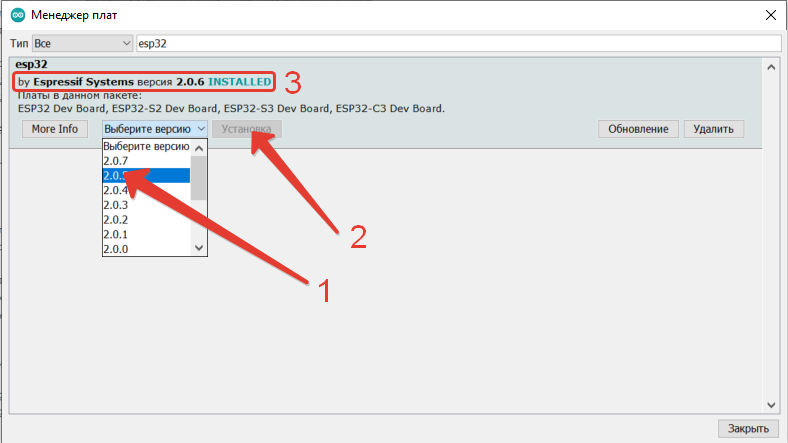
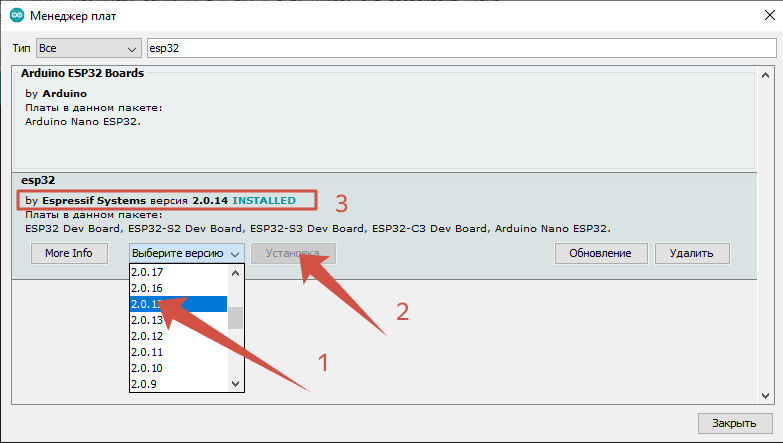
Корректировка статей Wiki

diff --git a/wiki/faq-1.md b/wiki/faq-1.md
@@ -20,7 +20,7 @@
 ### Вопросы по этому проекту
 
 #### **В**: **Эй чувак! У тебя проект не компилится. Ты файл FastLed.h в проект забыл включить. Выложи!**  
-**О**: Это стандартная библиотека для FastLED для управления адресными светодиодами. Идите в менеджер библиотек и установите ее. Версию библиотеки выбирайте 3.5 или 3.4; Или скачайте с [сайта производителя](https://github.com/FastLED/FastLED). Или скопируйте в папку библиотек ардуино из папки библиотек проекта (libraries/FastLED) - там она тоже есть.
+**О**: Это стандартная библиотека для FastLED для управления адресными светодиодами. Идите в менеджер библиотек и установите ее. Версию библиотеки выбирайте 3.6.0 или 3.7.0; Или скачайте с [сайта производителя](https://github.com/FastLED/FastLED).  
 
 -----
 
@@ -33,14 +33,14 @@
 
 #### **В**: **Не компилируется. Выбрана плата "голая ESP8266-12E". Сообщение об ошибке: "D4 was not declared in this scope."**  
 **О**: Очевидно производители библиотеки для "голой ESP8266-12E" не определили данную константу. Используйте вместо константы D4 числовое определение пина для вашей платы или 
-       выполните компиляцию проекта для плат NodeMCU или WeMos D1 mini. Рекомендуется в качестве платы назначения указывать **ModeMCU v1.0 (ESP-12E Module)**
+       выполните компиляцию проекта для плат NodeMCU или WeMos d1 mini. Рекомендуется в качестве платы назначения указывать **ModeMCU v1.0 (ESP-12E Module)** для плат NodeMCU и **LOLIN(WEMOS) D1 mini (clone)** для плат Wemos d1 mini.
 
 -----
 
 #### **В**: **Не компилируется. В сообщении об ошибке содержатся сведения о дублирующихся библиотеках.**  
 **О**: В вашей среде установлено две версии одной и той же библиотеки. Обычно это библиотека FastLED - одна версия находится в папке установки среды Arduino 
        (например в "C:\Program Files (x86)\Arduino\libraries\"), другая - в папке документов пользователя (например "C:\Users\vvip-68\Documents\Arduino\libraries\"). 
-       Удалите одну из версий библиотек, убедитесь что оставшаяся библиотека имеет версию 3.4 или 3.5 и попробуйте скомпилировать скетч снова.
+       Удалите одну из версий библиотек, убедитесь что оставшаяся библиотека имеет версию 3.6.0 или 3.7.0 и попробуйте скомпилировать скетч снова.
 
 -----
 
@@ -49,20 +49,20 @@
 - выбрана неверная плата. Используйте **NodeMCU 1.0 (ESP-12E Module)** или **LOLIN(WEMOS) D1 mini (clone)**. Под эти платы проект собирается, под другие, возможно, нужна модификация кода.
 - установлена устаревшая версия библиотек поддержки плат - например для ESP8266 версия библиотеки 2.4.2. 
   Данный проект использует библиотеки для плат ESP8266 версии **3.1.2.**.  
-  Для версии микроконтроллера ESP32 используйте версию ядра **1.0.6**.  
+  Для версии микроконтроллера ESP32 используйте версию ядра **2.0.14**.  
   Изучите инструкцию в комментариях в начале основного файла проекта. Обновите библиотеки поддержки плат (ядро) до этой версии.
   С другими версиями ядра, в том числе и более новыми, проект может работать нестабильно, вообще не работать или даже не компилироваться.
 
 -----
 
 #### **В**: **Собрал, использую NodeMCU (Wemos D1 mini). Эффекты работают, но нестабильно. Случайные вспышки на матрице. Буквы бегущей строки прыгают.**  
-**О**: Для начала убедитесь, что вы используете рекомендованные версии ядра системы - ***3.1.2*** для **ESP8266**, ***1.0.6*** для **ESP32**.  
+**О**: Для начала убедитесь, что вы используете рекомендованные версии ядра системы - ***3.1.2*** для **ESP8266**, ***2.0.14*** для **ESP32**.  
        Если версии ядра установлены правильные, но проблема всё еще наблюдается - попробуйте рекомендации изложенные 
        в статье [Три шага к успеху](https://github.com/vvip-68/LedPanelWiFi/wiki/Три-шага-к-успеху.-Некоторые-особенности-настроек...)
 
 -----
 
-#### **В**: **Подскажите, что не так... C подключением через точку доступа всё исправно работает, а при попытке подключиться к локальной сети не могу законнектиться через приложение. В чем может быть проблема?**  
+#### **В**: **Подскажите, что не так... C подключением через точку доступа всё исправно работает, а при попытке подключиться к локальной сети не могу законнектиться через Web-интерфейс. В чем может быть проблема?**  
 **О**: Проблема может быть в неправильно указанном статическом адресе / параметрах сети в прошивке. В скетче по умолчанию используется адрес в сети 192.168.**0**.xxx. 
 
 Ваш WiFi роутер в зависимости от настроек может создавать сеть в другом диапазоне. Чаще всего это 192.168.**1**.xxx или 192.168.**100**.xxx; 
@@ -71,7 +71,7 @@ IP из **этой** сети. Допустим, роутер имеет IP-ад
 
 Следующий вариант - ваш роутер имеет адрес, отличный от стандартного - 1-й адрес в сети, например вместо адреса 192.168.0.**1** 
 роутер работает на адресе 192.168.0.**254**. Исправьте в скетче в разделе настроек сети параметр Gateway (GTW):  
-параметр, указывающий какую подсеть использует роутер задается в настройках в файле **a_def_hard.h** в строке 33.
+параметр, указывающий какую подсеть использует роутер задается в настройках в файле **a_def_soft.h** в строке 31.
 
 ```
 #ifndef GTW
@@ -80,23 +80,16 @@ IP из **этой** сети. Допустим, роутер имеет IP-ад
 ```
 -----
 
-#### **В**: **Автор неверно указал IP адрес панели 192.168.4.1 в режиме точки доступа. На самом деле он 192.168.4.2 - указываю его, приложение на смартфоне подключается. Правда управлять устройством не получается все равно - она не реагирует на изменения.**  
-**О**: Нет, все правильно. IP панели - 192.168.4.1; Адрес 192.168.4.2 получает ваш смартфон при подключении к точке доступа. 
-       Когда в приложении для подключения вы указываете адрес 192.168.4.2 - вы подключаете ваш смартфон с самому себе, а не к устройству. 
-       Естественно никакое управление устройством работать не будет.   
-
------
-
-#### **В**: **Устройство создает точку доступа, телефон к ней подключается. В приложении ввожу IP адрес панели 192.168.4.1, но соединение не происходит. Что я делаю не так?**  
+#### **В**: **Устройство создает точку доступа, телефон к ней подключается. В браузере ввожу IP адрес панели 192.168.4.1, но соединение не происходит. Что я делаю не так?**  
 **О**: Некоторые телефоны не могут передавать данные через точку доступа, пока в них активен мобильный интернет. 
        Все передаваемые данные отправляются в интернет, вместо передачи их в точку доступа. В настройках телефона выключите мобильный интернет ("Мобильные данные"). 
-       После этого телефон из приложения должен подключиться к устройству.  
+       После этого телефон из браузера должен подключиться к устройству.  
 
 -----
 
 #### **В**: **Устройство подключается к сети, получает адрес - это видно в логах. Телефон к устройству подключается. В приложении ввожу IP адрес, полученный устройством - тот, что выводится в логе, но соединение не происходит. Что я делаю не так?**  
 **О**: Некоторые роутеры  (например роутеры ASUS, в частности Asus RT-AC58U), имеют в своих настройках параметр "Изоляция точки доступа", он же - "Режим изоляции клиентов". 
-       По умолчанию эта настройка включена. Отключите ее. После этого приложение должно подключиться к смартфону.  
+       По умолчанию эта настройка включена. Отключите ее. После этого браузер должен подключиться к смартфону.  
 
 -----
 
@@ -106,10 +99,11 @@ IP из **этой** сети. Допустим, роутер имеет IP-ад
 #define NETWORK_PASS ""  // Пароль для подключения к WiFi сети - пропишите здесь или задайте из приложения настроек Web-приложения в браузере
 ```
 **О**: Эти настройки определяют параметры доступа к сети по умолчанию, которые используются при ***ПЕРВОЙ*** загрузке прошивки в устройство. 
-       В этот момент они сохраняются в памяти матрицы и при последующих запусках имя сети и пароль извлекаются из энергонезависимой памяти и 
+       В этот момент они сохраняются в памяти контроллера и при последующих запусках имя сети и пароль извлекаются из энергонезависимой памяти и 
        используются уже извлеченные значения, а не те, что прописаны в #define. 
        Если вы уже запускали устройство и ПОСЛЕ этого изменили в скетче имя и пароль сети, вам нужно также изменить значение флага, 
-       указывающее было ли уже сохранение параметров в EEPROM или еще нет. Этот флаг находится в файле a_def_soft.h в строке 7  
+       указывающее было ли уже сохранение параметров в EEPROM или еще нет. Этот флаг находится в файле a_def_soft.h в строке 7.
+       Измените на любое другое 16-ричное число в 1 байт.
 
 ```
 #define EEPROM_OK 0x5A // Флаг, показывающий, что EEPROM инициализирована корректными данными 
@@ -142,7 +136,7 @@ IP из **этой** сети. Допустим, роутер имеет IP-ад
 **О**: ***Вариант 1***: У вас физически не подключена кнопка, но скетч скомпилирован с опцией использования функционала кнопки `#define USE_BUTTON 1`. В этом случае микроконтроллер свободный пин кнопки, притянутый внутренним резистором микроконтроллера к "земле" воспринимает как состояние кнопки "нажато". Длительное "нажатие" кнопки воспринимается скетчем как запрос на регулировку яркости матрицы.  
 **Решение:** либо припаяйте кнопку, либо отключите в настройках скетча использование кнопки `#define USE_BUTTON 0`.   
 
-***Вариант 2***: Используется версия ядра, отличная от рекомендованной **3.1.2** для **ESP8266**, **1.0.6** для **ESP32**.  
+***Вариант 2***: Используется версия ядра, отличная от рекомендованной **3.1.2** для **ESP8266**, **2.0.14** для **ESP32**.  
 
 **Решение:** ***Вариант 1***:  
 Отключить использование кнопки в настройках скетча - в файле a_def_hard.h указать
@@ -151,7 +145,7 @@ IP из **этой** сети. Допустим, роутер имеет IP-ад
 ```
 
 **Решение:** ***Вариант 2***:  
-Установить ядро рекомендованных версий **3.1.2** для **ESP8266** или **1.0.6** для **ESP32** - при этом кнопка матрицы будет работать корректно, самопроизвольного изменения яркости не будет происходить.
+Установить ядро рекомендованных версий **3.1.2** для **ESP8266** или **2.0.14** для **ESP32** - при этом кнопка матрицы будет работать корректно, самопроизвольного изменения яркости не будет происходить.
 
 -----
 
@@ -162,14 +156,3 @@ IP из **этой** сети. Допустим, роутер имеет IP-ад
 
 Файлы для загрузки находятся в проекте в папке **'data'** внутри парки скетча. Выполните [загрузку файлов](https://github.com/vvip-68/LedPanelWiFi/wiki/Пошаговая-инструкция-подготовки-среды-и-сборка-проекта#шаг-10) в [файловую систему](https://github.com/vvip-68/LedPanelWiFi/wiki/Загрузка-данных-в-файловую-систему-МК) микроконтроллера.   
 
------
-
-#### **В**: **Проект на ESP32, версия ядра 1.0.6. Всё собирается и загружается в плату. Web-интерфейс доступен, но ничего не могу настроить. 
-При выборе эффекта в Web-интерфейсе микроконтроллер перезагружается. В логе пишет "Heap corrupted". Что делать, как исправить?
-
-**О**: если при нажатии кнопки смены эффекта в Web-приложении вы получаете краш программы с сообщением в журнале либо **"Stack overflow"**, либо **"Heap corrupted"* - перейдите в папку   
-`C:\Users\<user>\AppData\Local\Arduino15\packages\esp32\hardware\esp32\1.0.6\`   
-и далее найдите файлы:
-`\cores\esp32\main.cpp`, `\tools\sdk\sdkconfig`, `\tools\sdk\include\config\sdkconfig.h`.
-
-В каждом из этих файлов найдите строчку - параметр CONFIG_ARDUINO_LOOP_STACK_SIZE и измените значение по умолчанию 8192 на 16138, пересоберите проект с новым значением параметра.

diff --git a/wiki/Arduino/wiki.md b/wiki/Arduino/wiki.md
@@ -4,8 +4,13 @@
 
 Перейдите на сайт разработчиков [Arduino](https://www.arduino.cc/en/Main/Software) и скачайте среду разработки.
 
-Текущая версия среды разработки - Arduino IDE 2.0.4 еще очень сырая, содержит множество ошибок, иногда портит код 
-исходных файлов и не всегда правильно компилирует проект. **Категорически не рекомендуется к использованию!!!**  
+Текущая версия среды разработки - Arduino IDE 2.3.3, может содержать некоторые ошибки, поскольку новая и развивается.   
+Допустима к использованию.  
+Но для Old-school пользователей все же рекомендуется старая проверенная IDE версии 1.8.19.  
+Ниже описан как раз процесс установки и настройки для версии Arduino IDE 1.8.19.
+Установка и настройка Arduino IDE 2.3.3 имеет схожие шаги, так что инструкция с некоторыми нюансами сгодится и для нее.  
+Для скачивания установщика Arduino IDE 2.3.3 для Windows - выберите **WINDOWS** Win 10 and newer, 64 bit.  
+Если у вас другая ОС - выберите установщик для нее.
 
 ![Среда разработки Arduino IDE](https://github.com/vvip-68/LedPanelWiFi/blob/main/wiki/Arduino/Step_01.png)
 
@@ -54,7 +59,7 @@
 ![Менеджер плат - установка](https://github.com/vvip-68/LedPanelWiFi/blob/main/wiki/Arduino/Step_03_2.png)
 
 В строке фильтра введите "ESP32", найдите блок ESP32 by Espressif System
-1. Выберите версию ядра **1.0.6** - ***это важно!!!***
+1. Выберите версию ядра **2.0.14** - ***это важно!!!***
 2. Нажмите кнопку "Установка", дождитесь завершения установки.
 3. Должна появиться надпись, подтверждающая что вы установили правильную версию ядра системы
 
@@ -78,6 +83,9 @@ https://github.com/vvip-68/LedPanelWiFi
 Скопируйте содержимое папки "libraries" из папки проекта, в папку "libraries" установленной среды разработки Arduino
 C:\Program Files (x86)\Arduino\libraries
 
+Также допускается установка библиотек в папку "Мои документы"\Arduino\libraries.  
+Обычно физический путь к этой папке - C:\\Users\<user>\Documents\Arduino\libraries
+
 ![Копирование библиотек](https://github.com/vvip-68/LedPanelWiFi/blob/main/wiki/Arduino/Step_05_1.png)
 
 **Внимание!!!**  
@@ -94,9 +102,9 @@ C:\Program Files (x86)\Arduino\libraries
 
 A строке поиска наберите "FastLED"
 Выберите блок "FastLED by Daniel Garcia"
-1. Выберите версию библиотеки 3.5.0
+1. Выберите версию библиотеки 3.6.0
 2. Нажмите кнопку "Установка", дождитесь завершения установки.
-3. Должна появиться надпись, подтверждающая что вы установили правильную (3.5.0!!!) версию библиотеки
+3. Должна появиться надпись, подтверждающая что вы установили правильную (3.6.0!!!) версию библиотеки
 
 
 ![Менеджер библиотек](https://github.com/vvip-68/LedPanelWiFi/blob/main/wiki/Arduino/Step_06_2.png)
@@ -142,7 +150,8 @@ A строке поиска наберите "FastLED"
 
 ![Проверка скетча](https://github.com/vvip-68/LedPanelWiFi/blob/main/wiki/Arduino/Step_08_1.png)
 
-Дождитесь окончания сборки проекта компилятором. Об успешном окончании сборки свидетельствуют белые буквы на черном фоне внизу окна редактора. 
+Дождитесь окончания сборки проекта компилятором. Об успешном окончании сборки свидетельствует сообщение внизу окна редактора.
+В зависимости от выбранной платы и версии IDE - это могут быть и белые буквы на черном фоне, и оранжевые. 
 
 Если белые буквы появились, обращать внимание на расположенные выше них оранжевые не нужно. Это диагностические сообщения библиотек. 
 
@@ -153,7 +162,7 @@ A строке поиска наберите "FastLED"
 Если сборка проекта завершилась без ошибок - можно скетч загружать в микроконтроллер.
 Подключите контроллер к USB кабелем micro-USB, выберите порт к которому подключена плата микроконтроллера, откройте монитор порта, нажав на кнопку в правом верхнем углу окна Arduino IDE.
 
-При необходимости перед присоединением кабеля USB к контроллеру, подключите дополнительное питание к компонентам вашего собранного проекта. 
+Если к плате микроконтроллера подключена матрица - перед присоединением кабеля USB к контроллеру, подключите дополнительное питание к компонентам вашего собранного проекта. Несоблюдение этого требования приведет к избыточному току через защитный диод, расположенный рядом с разъемом USB на плате, он испустит синий дымок и сгорит. После этого получить доступ к плате через USB по COM-порту у вас не получится. Тогда только или менять диод, или покупать новую плату целиком.  
 
 ![Загрузка скетча](https://github.com/vvip-68/LedPanelWiFi/blob/main/wiki/Arduino/Step_09_1.png)
 

diff --git a/wiki/About/about.md b/wiki/About/about.md
@@ -97,24 +97,23 @@
 нужное количество. Ну или, каждый год - дополнительно по паре линий чтобы расширять гирлянду до нужного размера, если есть желание.
 Но тут как повезет с цветом.
 
-Купить подходящий блок питания можно [тут](https://aliexpress.ru/item/32932280026.html):
+Купить подходящий блок питания можно [тут](https://aliexpress.ru/item/1005002185053328.html?sku_id=12000018990942596):
 
 ![power-supply](https://github.com/vvip-68/LedPanelWiFi/blob/main/wiki/About/power-supply.jpg)
 
-Обратите внимание, что некоторые китайские магазины торгуют как светодиодами, так и источниками питания. Например как на
-приведенном скриншоте - BTF-LIGHTING-Store. Заказ из одного магазина предпочтительней - получите всё в одной посылке.
+Обратите внимание, что некоторые китайские магазины торгуют как светодиодами, так и источниками питания. Например магазин - BTF-LIGHTING-Store. Заказ из одного магазина предпочтительней - получите всё в одной посылке.
 
 ## Микроконтроллер
 
 Это собственно то, что управляет диодами - говорит каждому из них каким цветом светиться в данный момент.  
 Для гирлянды используется микроконтроллер Wemos D1 Mini. Можно купить, например, [тут](https://aliexpress.ru/item/32831353752.html) или [тут](https://aliexpress.ru/item/1005004344044423.html):
-Выбирать "Wemos D1 mini". Это годится для гирлянд с числом сведодиодов 700-800. Для гирлянд с большим количеством диодов
-нужно выбирать другой микроконтроллер, например [такой](https://aliexpress.ru/item/1005005327896897.html) или [такой](https://aliexpress.ru/item/1005005246146177.html). 
+Выбирать "Wemos D1 mini". Это годится для гирлянд с числом светодиодов 500-700. Для гирлянд с большим количеством диодов
+нужно выбирать другой микроконтроллер, например [такой](https://aliexpress.ru/item/32836372640.html?sku_id=12000029299984823) или [такой](https://aliexpress.ru/item/1005004605399313.html). 
 Выбирать "ESP32".  
 
 ![wemos](https://github.com/vvip-68/LedPanelWiFi/blob/main/wiki/About/wemos.jpg)
 
-Необязательный элемент - модуль реле включения / выключения питания, подаваемого на светодиоды [тут](https://aliexpress.ru/item/32643142716.html) - "D1 Relay":
+Необязательный элемент - модуль реле включения / выключения питания, подаваемого на светодиоды [тут](https://aliexpress.ru/item/32773890862.html) - "D1 Relay":
 
 ![relay](https://github.com/vvip-68/LedPanelWiFi/blob/main/wiki/About/relay.jpg)
 
@@ -137,7 +136,7 @@
 
 4. Иногда из российских магазинов товары приходят быстрее чем с AliExpress. Если не успеваете - заказывайте оттуда. 
    Правда стоят те же самые товары в российских магазинах в 2-3-4 раза дороже чем привезти с Китая. Но это ваш выбор.
-   Можете посмотреть в [этом](https://giant4.ru/catalog/) магазине.
+   Можете посмотреть в [этом](https://giant4.ru/catalog/) магазине. Или на Wildberries.  
 5. Как правило, если выбрать "Бесплатная доставка" - посылка отправляется с не отслеживаемым треком. 
    То есть она где-то перемещается, но где вам никто не скажет, пока не придет на почту. А может и вовсе не прийти. И такое бывает. 
    Я бы рекомендовал выбирать доставку с оплатой 50-70 рублей, в этом случае продавец как правило отправляет посылку, 
